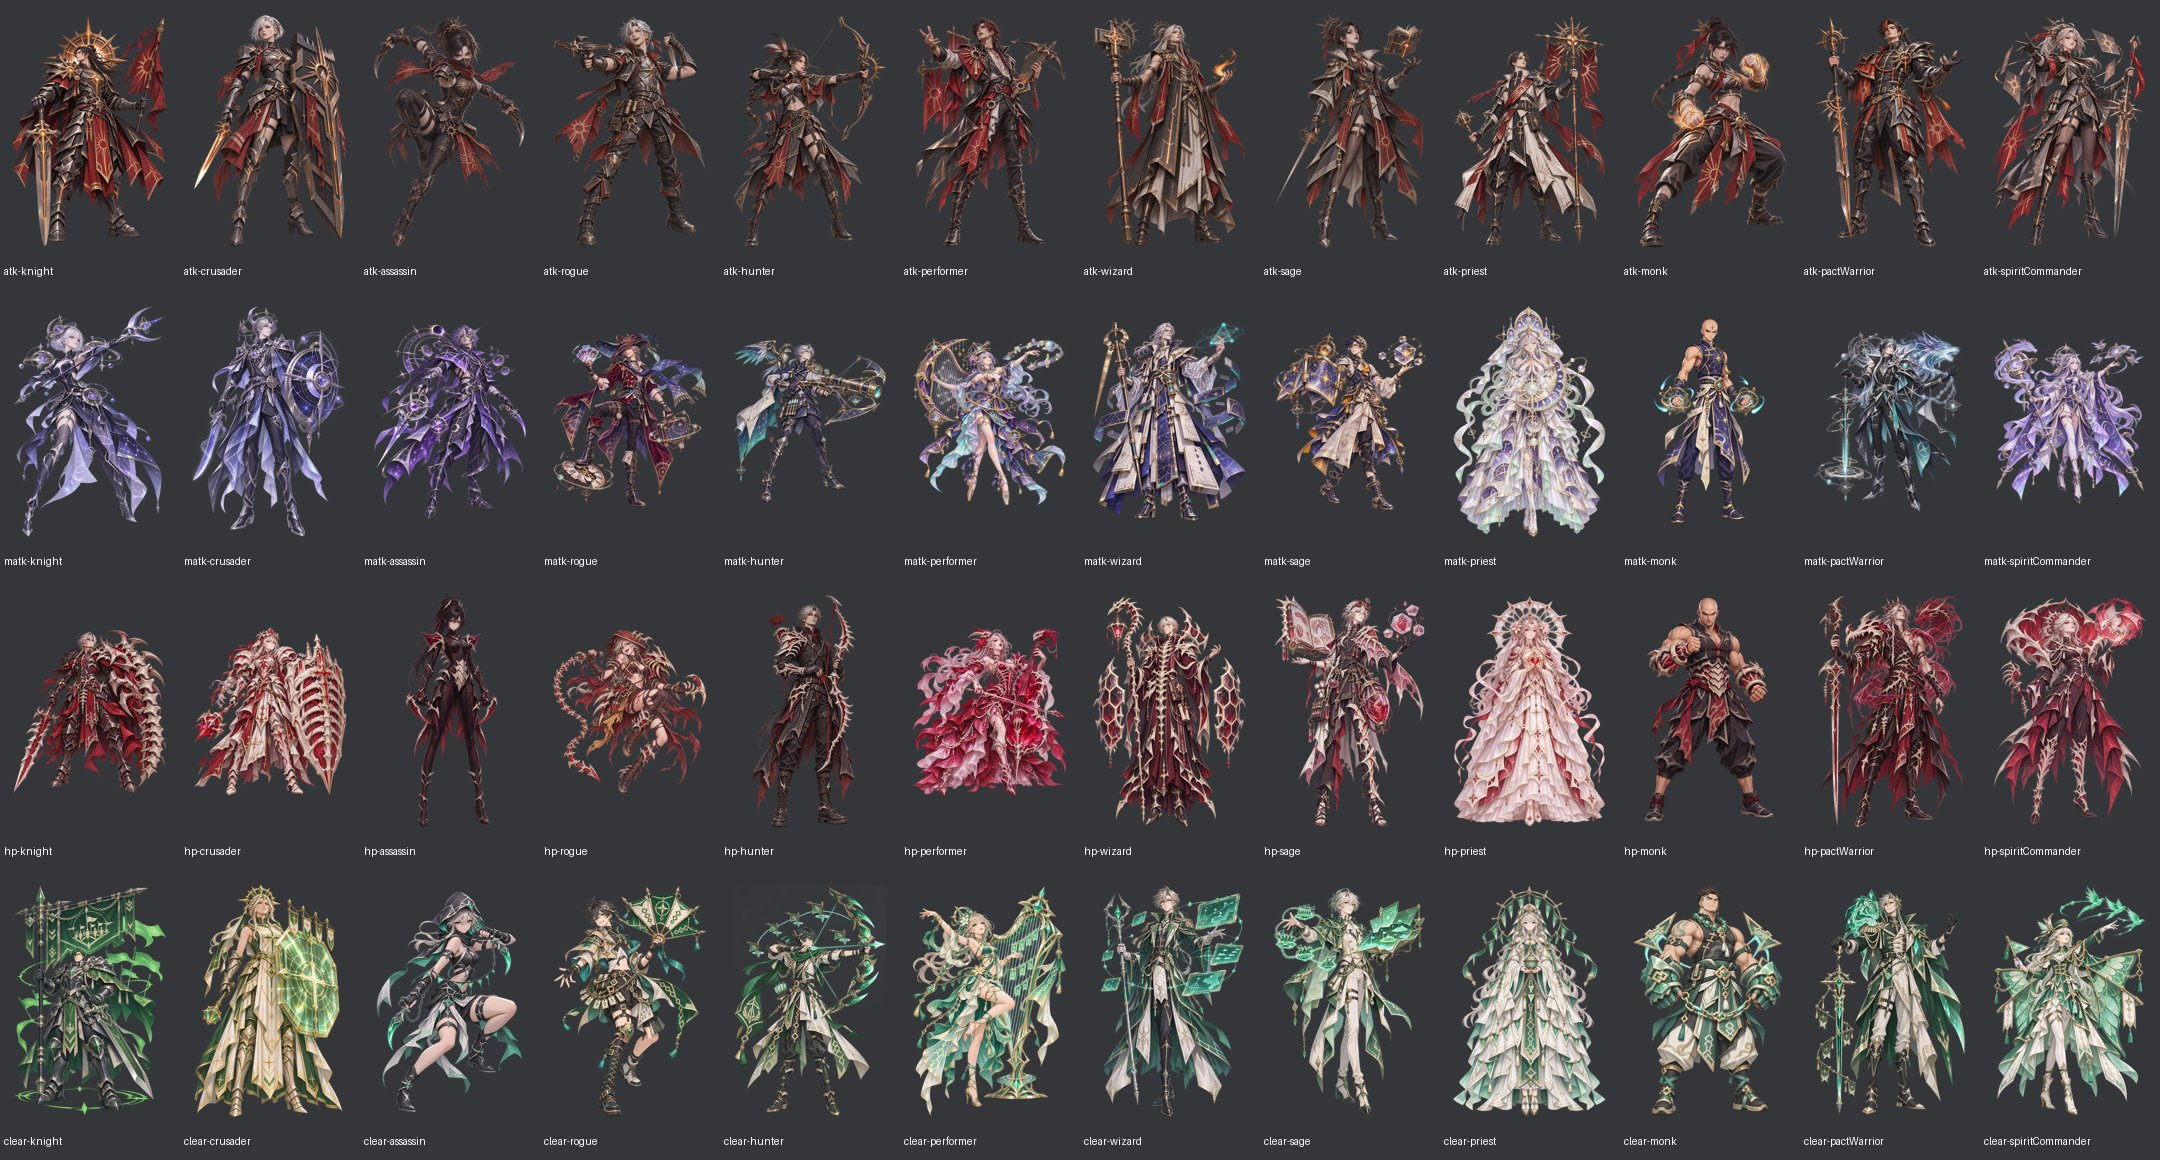
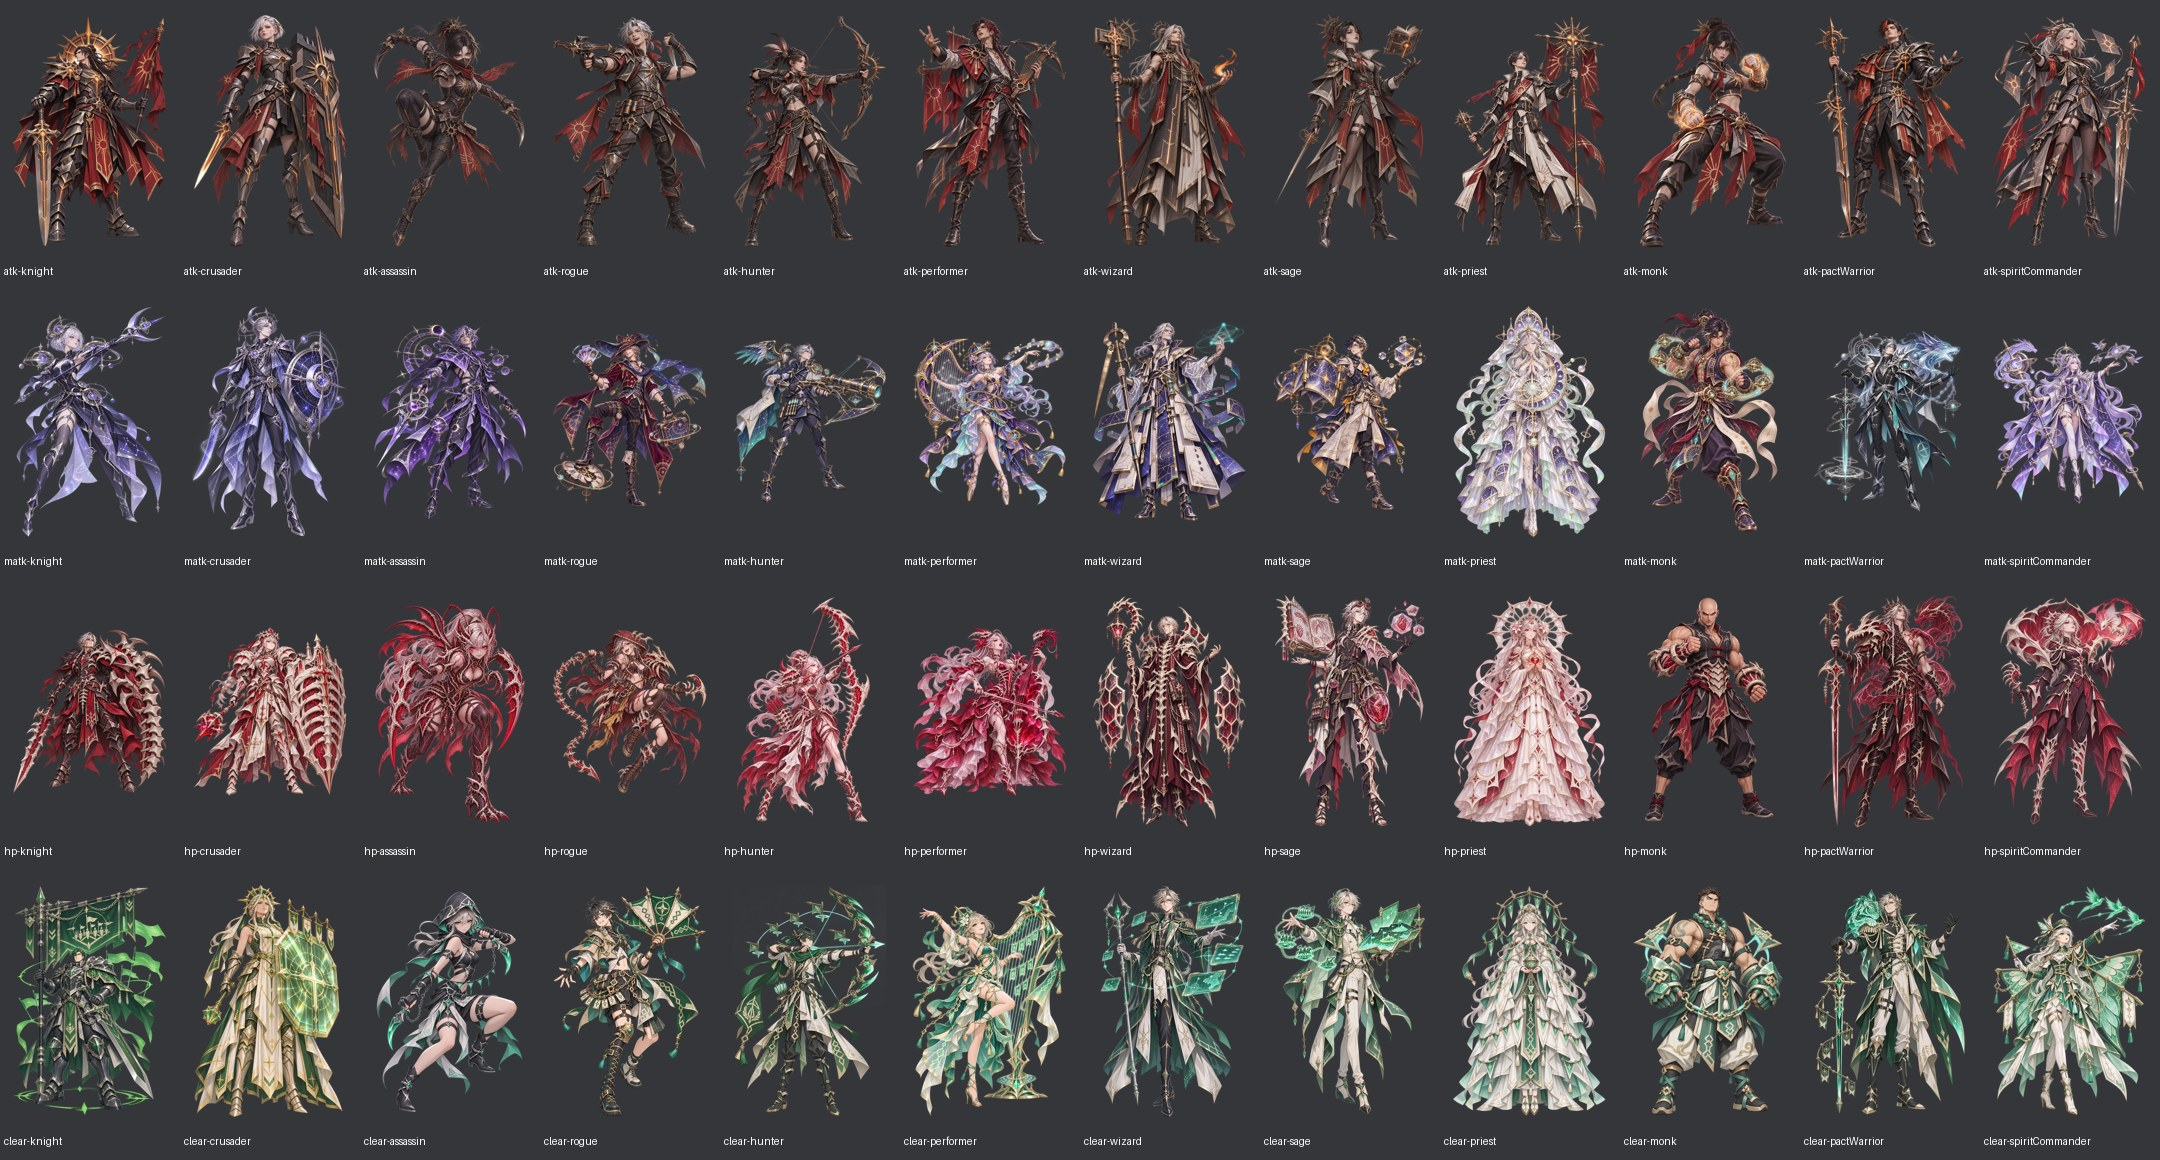
docs: verify style-consistent mantle redraws

Changed region(s): [[0.1551, 0.4966, 0.2481, 0.7138], [0.7444, 0.2483, 0.8375, 0.4655], [0.3412, 0.4966, 0.4032, 0.7138]]

diff --git a/docs/HANDOFF_EXTREME_MANTLES_V2_2026-11-08.md b/docs/HANDOFF_EXTREME_MANTLES_V2_2026-11-08.md
@@ -327,3 +327,10 @@
 
 - 以原 V2 女性銀白髮紅瞳獵人為主圖、血淵舞孃為厚塗與生體骨甲細節參考，保留大型龍肋骨弓、紅色弓弦、背部骨質箭袋、露腿綁帶與紅白破碎膜衣，僅將橫向拉弓姿勢調成直式斜向張弓。上一輪錯誤的男性獵人造型不再使用。
 - 更新 `dist/assets/extreme/mantles-v2/hp-hunter.webp`。三張返工改採原圖參考，全部維持 1024×1536 RGBA 透明安全畫布；每張都已有獨立 Git 歷史提交。進入三張同系列風格比對與專項回歸。
+
+## S1–S3 風格返工總驗收（2026-11-09）
+
+- 三張均取 Git 歷史原 V2 作為編修主參考，再以同系列另一職業作質感參考；修正前次不當改動的人物身份、服裝材質與裝備造型。
+- 重繪後 alpha 可見主體邊界（1024×1536 畫布）：`matk-monk`=(62,94,962,1441)，`hp-assassin`=(62,104,962,1432)，`hp-hunter`=(62,94,962,1441)，三張可見高度均超過 1300 px，人物／武器不貼近畫布邊緣。
+- 已更新 `docs/assets/extreme-mantles-v2-contact-sheet.jpg`，四系列共 48 張並列比對。冥界修羅保留原黑髮與星象拳環，血淵刺客保留銀白髮與螳螂生體刃，血淵獵人保留銀白髮女性及大型龍骨弓；細節與同系列美術更接近。視覺偏好仍由使用者最終確認。
+- `node --test tests/extreme-*.test.mjs` 36/36 通過；未合併 main、未部署正式版。
